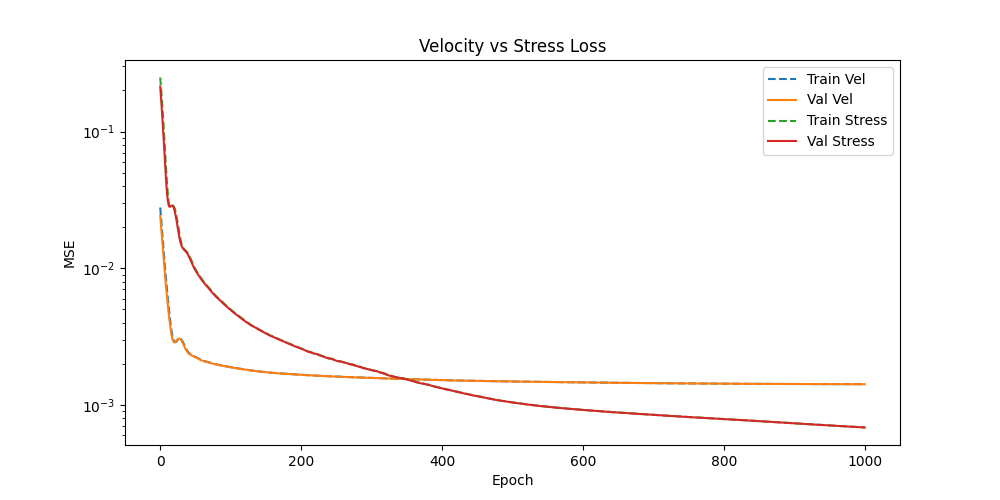
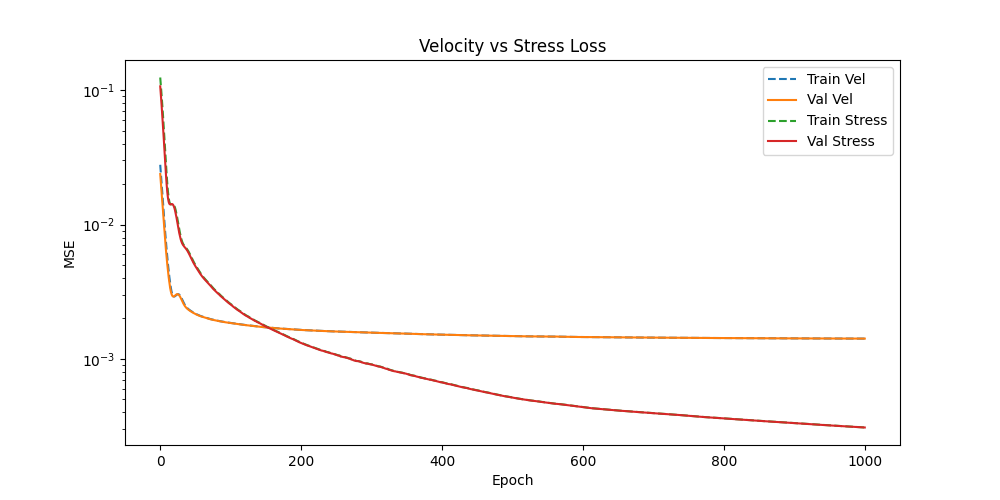
i'm publishing the branch in which pyg will be implemented

diff --git a/pyg_model/pyg_train.py b/pyg_model/pyg_train.py
@@ -2,13 +2,10 @@ import os
 import yaml
 import torch
 from torch_geometric.loader import DataLoader
-
 import torch.nn.functional as F
-
 from pyg_data import GraphUNetTFRecordDataset
 from pyg_model import GraphUNetDefPlatePyG
 from pyg_plots import make_final_plots
-
 from torch_geometric.transforms import Compose
 from pyg_transform import InjectKinematicVelocity, AddDynamicWorldEdges
 
@@ -56,7 +53,7 @@ def compute_loss(preds, targets, node_type):
     stress_loss = torch.tensor(0.0, device=preds.device)
 
     if vel_count > 0:
-        vel_loss = F.huber_loss(pred_vel[vel_mask], target_vel[vel_mask])
+        vel_loss = F.mse_loss(pred_vel[vel_mask], target_vel[vel_mask])
         loss = loss + weight_vel * vel_loss
     if stress_count > 0:
         stress_loss = F.huber_loss(pred_stress[stress_mask], target_stress[stress_mask])
@@ -80,7 +77,7 @@ def compute_mae(preds, targets, node_type):
     return mae_sum, count
 
 
-def train_epoch(model, loader, optimizer, device):
+def train_epoch(model, loader, optimizer, device, transform=None):
     model.train()
     total_loss = 0.0
     total_vel_loss = 0.0
@@ -90,6 +87,10 @@ def train_epoch(model, loader, optimizer, device):
 
     for batch in loader:
         batch = batch.to(device)
+        
+        if transform is not None:
+            batch = transform(batch)
+
         optimizer.zero_grad()
         preds = model(batch.x, batch.edge_index, batch=batch.batch if hasattr(batch, "batch") else None)
         loss, vel_loss, stress_loss = compute_loss(preds, batch.y, batch.node_type)
@@ -112,7 +113,7 @@ def train_epoch(model, loader, optimizer, device):
 
 
 @torch.no_grad()
-def eval_epoch(model, loader, device):
+def eval_epoch(model, loader, device, transform=None):
     model.eval()
     total_loss = 0.0
     total_vel_loss = 0.0
@@ -122,6 +123,10 @@ def eval_epoch(model, loader, device):
 
     for batch in loader:
         batch = batch.to(device)
+        
+        if transform is not None:
+            batch = transform(batch)
+
         preds = model(batch.x, batch.edge_index, batch=batch.batch if hasattr(batch, "batch") else None)
         loss, vel_loss, stress_loss = compute_loss(preds, batch.y, batch.node_type)
 
@@ -173,10 +178,14 @@ def main():
         ),
         allowed_traj_ids=data_cfg.get("selected_traj_ids"),
         allowed_time_ids=data_cfg.get("selected_time_ids"),
-        transform=physics_transform
+        transform=None 
     )
 
     mode = train_cfg.get("mode", "standard")
+    
+    num_workers = train_cfg.get("num_workers", 0)
+    pin_memory = True if num_workers > 0 else False
+    persistent_workers = True if num_workers > 0 else False
 
     if mode == "overfit":
         overfit_traj = train_cfg.get("overfit_traj_id")
@@ -193,14 +202,16 @@ def main():
             ),
             allowed_traj_ids=[overfit_traj],
             allowed_time_ids=overfit_time_idx,
-            transform=physics_transform 
+            transform=None
         )
         
         train_loader = DataLoader(
             dataset,
             batch_size=len(dataset),
             shuffle=False,
-            num_workers=train_cfg.get("num_workers", 0),
+            num_workers=num_workers,
+            pin_memory=pin_memory,
+            persistent_workers=persistent_workers
         )
         val_loader = train_loader
         print(f"Overfitting on traj_id={overfit_traj} with {len(dataset)} samples"
@@ -221,13 +232,17 @@ def main():
             train_set,
             batch_size=train_cfg.get("batch_size", 2),
             shuffle=train_cfg.get("shuffle", True),
-            num_workers=train_cfg.get("num_workers", 0),
+            num_workers=num_workers,
+            pin_memory=pin_memory,
+            persistent_workers=persistent_workers
         )
         val_loader = DataLoader(
             val_set,
             batch_size=train_cfg.get("batch_size", 2),
             shuffle=False,
-            num_workers=train_cfg.get("num_workers", 0),
+            num_workers=num_workers,
+            pin_memory=pin_memory,
+            persistent_workers=persistent_workers
         )
 
     # File Dim (12) + Kinematic Injection (3) = 15
@@ -257,8 +272,8 @@ def main():
     val_vel_losses, val_stress_losses = [], []
 
     for epoch in range(epochs):
-        tr_loss, tr_vel, tr_str, tr_mae = train_epoch(model, train_loader, optimizer, device)
-        val_loss, val_vel, val_str, val_mae = eval_epoch(model, val_loader, device)
+        tr_loss, tr_vel, tr_str, tr_mae = train_epoch(model, train_loader, optimizer, device, transform=physics_transform)
+        val_loss, val_vel, val_str, val_mae = eval_epoch(model, val_loader, device, transform=physics_transform)
 
         train_losses.append(tr_loss)
         val_losses.append(val_loss)
@@ -295,6 +310,7 @@ def main():
     with torch.no_grad():
         for batch in val_loader:
             batch = batch.to(device)
+            batch = physics_transform(batch)
             preds = model(batch.x, batch.edge_index, batch=batch.batch if hasattr(batch, "batch") else None)
             
             # Denormalization
